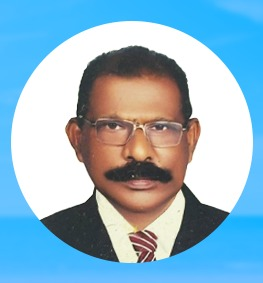
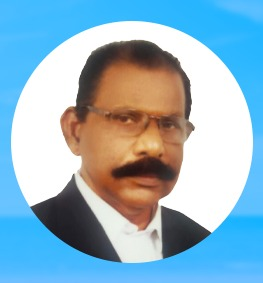
Ui

diff --git a/src/app/ip-attorneyshome/ip-attorneyshome.component.html b/src/app/ip-attorneyshome/ip-attorneyshome.component.html
@@ -1,95 +1,102 @@
 <section class="section-content-block section-secondary-bg">
 
     <div class="container">
-        
+
         <div class="row section-heading-wrapper">
-  
+
             <div class="col-md-12 col-sm-12 text-center">
                 <h4 class="heading-alt-style text-capitalize text-dark-color">Meet Our Legal Team</h4>
                 <span class="heading-separator heading-separator-horizontal"></span>
                 <h2 class="subheading-alt-style" style="text-align: justify;">
-                    Welcome to Adv. K.J. Thomas and Associates, a leading law firm based in Thiruvananthapuram, Kerala, specializing in Maritime Law, International Trade, and Customs  Laws and Regulations.Maritime and General Insurance ,Marine liability issues ,Admirality issues ,Company formation ,Import Export Code (IEC),Customs clearance ,Ship Registration,Legal and Comercial consultations,Legal Studies etc .   With a decade of dedicated practice, our firm provides expert legal counsel and representation to clients navigating the complexities of commercial courts, high courts, and international jurisdictions. Our mission is to offer strategic, results-driven solutions while upholding the highest standards of integrity and professionalism.
+                    Welcome to Adv. K.J.Thomas and Associates, a leading law firm based in Thiruvananthapuram, Kerala,
+                    specializing in Maritime Law, International Trade, and Customs Laws and Regulations.Maritime and
+                    General Insurance, Marine liability issues, Admirality issues, Company formation, Import Export Code
+                    (IEC), Customs clearance, Ship Registration, Legal and Commercial consultations, Legal Studies etc.
+                    With a decade of dedicated practice, our firm provides expert legal counsel and representation to
+                    clients navigating the complexities of commercial courts, high courts, and international
+                    jurisdictions. Our mission is to offer strategic, results-driven solutions while upholding the
+                    highest standards of integrity and professionalism.
                 </h2>
-            </div> <!-- end .col-sm-12  --> 
-  
+            </div> <!-- end .col-sm-12  -->
+
         </div>
-  
+
         <div class="row">
-  
+
             <div class="col-md-4 col-sm-6 col-xs-10 col-xs-offset-1 col-sm-offset-0 col-md-offset-0">
-  
-                <div class="team-layout-1 text-center">       
-  
+
+                <div class="team-layout-1 text-center">
+
                     <figure class="team-member">
                         <a href="#" title="K.J. Thomas Kallampally">
                             <img src="assets/images/team_5.jpeg" alt="K.J. Thomas Kallampally" />
                         </a>
                     </figure> <!-- end. team-member  -->
-  
-                    <article class="team-info">
-  
-                        <h3>Adv. K.J. Thomas  </h3>       
-                        <h4>M.Com, LL.B, Cert. Arb. & Med.</h4>                            
-                      <p>  Maritime & Customs</p>
-                        
-                      
-                    </article>                       
-                </div> <!--  end team layout-1 -->
-  
-            </div> <!--  end .col-lg-3 col-md-3 col-sm-6 col-xs-12 -->
-            
 
-  <div class="col-md-4 col-sm-6 col-xs-10 col-xs-offset-1 col-sm-offset-0 col-md-offset-0">
-  
-                <div class="team-layout-1 text-center">       
-  
+                    <article class="team-info">
+
+                        <h3>Adv. K.J.Thomas </h3>
+                        <h4 style="text-transform: capitalize;">M.Com, LL.B, Cert. Arb. & Med.</h4>
+                        <p> Maritime & Customs</p>
+
+
+                    </article>
+                </div> <!--  end team layout-1 -->
+
+            </div> <!--  end .col-lg-3 col-md-3 col-sm-6 col-xs-12 -->
+
+
+            <div class="col-md-4 col-sm-6 col-xs-10 col-xs-offset-1 col-sm-offset-0 col-md-offset-0">
+
+                <div class="team-layout-1 text-center">
+
                     <figure class="team-member">
                         <a href="#" title="K.Pradeep Kumar Kurunthali">
                             <img src="assets/images/team_6.jpg" alt="K.Pradeep Kumar Kurunthali" />
                         </a>
                     </figure> <!-- end. team-member  -->
-  
+
                     <article class="team-info">
-                        
-                        <h3>Adv. K.Pradeep Kumar </h3>    
-                        <h4> B.Sc., LL.B., M.B.L.</h4>                               
-                <p>  Dispute Resolution</p>
-                        
-                        
-  
-                    </article>                      
+
+                        <h3>Adv. K.Pradeep Kumar </h3>
+                        <h4 style="text-transform: capitalize;"> B.Sc., LL.B., M.L.M</h4>
+                        <p> Dispute Resolution</p>
+
+
+
+                    </article>
                 </div> <!--  end team-layout-1 -->
-  
+
             </div> <!--  end .col-lg-3 col-md-3 col-sm-6 col-xs-12  -->
-  
+
 
 
             <div class="col-md-4 col-sm-6 col-xs-10 col-xs-offset-1 col-sm-offset-0 col-md-offset-0">
-  
-                <div class="team-layout-1 text-center">       
-  
+
+                <div class="team-layout-1 text-center">
+
                     <figure class="team-member">
                         <a href="#" title="Gerosh Kumar ">
                             <img src="assets/images/team_7.jpg" alt="Gerosh Kumar " />
-                        </a>  
+                        </a>
                     </figure> <!-- end. team-member  -->
-  
-                    <article class="team-info">
-                        <h3>Adv. Gerosh Kumar  </h3> 
-                        <h4> B.Tech, FIE, MIS, IIT(Arb), LL.B, L.L.M Maritime Law</h4>
-                        <p>  Maritime & Hydrographic Consultant</p>                                   
-                      
-                       
-                    </article>                           
-                </div> <!--  end team-layout-1 -->
-  
-            </div> <!--  end .col-lg-3 col-md-3 col-sm-6 col-xs-12  -->
-  
-          
 
-  
-        </div> <!-- end .row  --> 
-  
+                    <article class="team-info">
+                        <h3>Adv. Gerosh Kumar </h3>
+                        <h4 style="text-transform: capitalize;"> B.Tech, FIE, MIS, IIT(Arb), LL.B, LL.M (Maritime Law)</h4>
+                        <p> Maritime & Hydrographic Consultant</p>
+
+
+                    </article>
+                </div> <!--  end team-layout-1 -->
+
+            </div> <!--  end .col-lg-3 col-md-3 col-sm-6 col-xs-12  -->
+
+
+
+
+        </div> <!-- end .row  -->
+
     </div> <!-- end .container  -->
-  
-  </section> 
+
+</section>

diff --git a/src/app/ip-header/ip-header.component.html b/src/app/ip-header/ip-header.component.html
@@ -69,7 +69,7 @@
                                         <span class="head-content">
                                             +91 944 7117 399</span> <br>
                                         <span class="head-content">
-                                            +91 944 7047 470</span><br>
+                                            +91 984 7563 366 </span><br>
                                         <span class="head-content">
                                             +91 944 6526 505</span>
 
@@ -88,7 +88,7 @@
                                             Court View Inn, Near <br> Indian Bank,
 
                                             Vanchiyoor Jn,
-                                            Thiruvananthapuram-11
+                                            Thiruvananthapuram-35.
                                         </span>
                                     </div>
                                 </div><!-- end .repair-icon-box  -->
@@ -102,7 +102,7 @@
                                     <div class="text">
                                         <span class="head-heading">TIMINGS</span>
                                         <span class="head-content">
-                                            Monday - Saturday <br> 9:00 AM - 06:00 PM
+                                            Monday - Saturday <br> 09:00 AM - 09:00 PM
                                             <br>
                                             Sunday 3:00 PM - 07:00 PM
                                         </span>
@@ -127,7 +127,7 @@
                         <li class="drop">
                             <a routerLink="#" title="About Us">About Us</a>
                             <ul class="drop-down">
-                                <li><a href="about">Adv. KJ.Thomas & Assco.</a></li>
+                                <li><a href="about">Adv. KJ.Thomas & Associates</a></li>
 
                                 <li><a href="our-team">Our Team</a></li>
                                 <li><a href="our-gallery">Our Gallery</a></li>

diff --git a/src/app/ip-memberdetailed/ip-memberdetailed.component.html b/src/app/ip-memberdetailed/ip-memberdetailed.component.html
@@ -33,7 +33,7 @@
                 <h2 class="subheading-alt-style" style="text-align: justify;">
                     Our legal team brings together extensive expertise in Maritime (Admiralty) Law, International Trade,
                     and Customs, offering comprehensive legal and commercial consultancy services to clients across the
-                    shipping and trade industries. With years of practice before Admiralty Courts, Commercial Courts,
+                    shipping and trade industries. With years of practice before Civil, Maritime, Admiralty Courts, Commercial Courts,
                     High Courts, and Customs Courts, we are well-positioned to handle complex disputes and provide
                     practical, result-oriented solutions.
 
@@ -42,7 +42,7 @@
                     We specialize in a wide spectrum of maritime and trade-related matters, including ship arrest, P&I
                     Club settlement and ship release, maritime insurance claims, ship registration, and renewal ,company
                     registration proceedings. Our services also extend to documentation and customs clearance, freight
-                    forwarding, ship chandelling, crew changing, and recruitment/placement under RPS licensing. Through
+                    forwarding, ship chandelling, crew changing, and crew recruitment/placement under RPS licensing. Through
                     our integrated legal and commercial approach, we ensure that shipowners, traders, and logistics
                     providers receive seamless support at every stage of their operations.
 

diff --git a/src/app/ip-abouthome/ip-abouthome.component.html b/src/app/ip-abouthome/ip-abouthome.component.html
@@ -12,7 +12,7 @@
                     <div class="about-us-intro">
 
                         <div class="col-md-12 col-sm-12 text-left margin-bottom-2">
-                            <h3 class="block-heading-title margin-top-12 text-dark-color">About Adv. K.J. Thomas and
+                            <h3 class="block-heading-title margin-top-12 text-dark-color">About Adv. K.J.Thomas and
                                 Associates </h3>
                             <!-- <h5> Maritime and Customs Lawyers</h5> -->
                             <p>
@@ -26,13 +26,13 @@
 
                     <div class="col-md-6">
                         <div class="highlight-layout-2">
-
+ 
                             <div class="highlight-icon">
                                 <!-- <i class="fa fa-wrench"></i> --><i class="fa-solid fa-ship"></i>
                             </div> <!-- end .service-icon  -->
 
                             <div class="highlight-text">
-                                <h5><a href="#">Marine(Admirality) & Customs law</a></h5>
+                                <h5><a href="#">Maritime (Admirality) & Customs law</a></h5>
                                 <div>The Court cases and disputes arising from maritime activities.
                                     Also provides <span style="font-weight: bold;"> Awareness/ learning/ Training Programmes</span> for Sea Farers</div>
                             </div> <!-- end .service-text  -->

diff --git a/src/app/ip-footer/ip-footer.component.html b/src/app/ip-footer/ip-footer.component.html
@@ -155,7 +155,7 @@
                                 <i class="fa fa-location-arrow fa-contact"></i>
                                 <p>Adv. K.J. Thomas Kallampally, <br />Court View Inn, <br>Near
                                     Indian Bank, <br> Vanchiyoor Junction,<br>
-                                    Thiruvananthapuram-11</p>
+                                    Thiruvananthapuram-35.</p>
 
                                 <i class="fa fa-phone fa-contact"></i>
                                 <p>Cell:&nbsp; +91 944 7117 399
@@ -184,11 +184,11 @@
                                 <ul class="opening-shedule">
                                     <li class="clearfix">
                                         <span> Every day </span>
-                                        <div class="pull-right">9:00 AM to 6:00 PM</div>
+                                        <div class="pull-right">09:00 AM to 09:00 PM</div>
                                     </li>
                                     <li>
                                         <span> Sunday </span>
-                                        <div class="pull-right"> 3:00 PM to 7:00 PM</div>
+                                        <div class="pull-right"> 03:00 PM to 07:00 PM</div>
                                     </li>
                                     <li>
                                         <span> (except Court timings)</span>

diff --git a/src/app/ip-page-contact/ip-page-contact.component.html b/src/app/ip-page-contact/ip-page-contact.component.html
@@ -44,9 +44,9 @@
                         <span class="icon-container"><i class="fa fa-home"></i></span>
 
                     </li>
-                    <address>KJ Thomas & Associates, <br> Court View Inn, Near
+                    <address>Adv. KJ Thomas & Associates, <br> Court View Inn, Near
                         Indian Bank,<br>Vanchiyoor Junction, Vanchiyoor PO, <br>Thiruvananthapuram , <br>Kerala,IN
-                        Pin:695011, </address>
+                        Pin:695035, </address>
                 </ul>
 
             </div>
@@ -58,12 +58,13 @@
                     <li>
                         <p>Adv. K.J. THOMAS <BR> +91 944 7117 399</p>
                     </li>
+                     <li>
+                        <p>Adv. K. PRADEEP KUMAR <br> +91 98475 63366</p>
+                    </li>
                     <li>
                         <p>Adv. V. GEROSH KUMAR <br> +91 94465 26505</p>
                     </li>
-                    <li>
-                        <p>Adv. K. PRADEEP KUMAR <br> +91 98475 63366</p>
-                    </li>
+                   
                 </ul>
 
             </div>

diff --git a/src/app/ip-page-about/ip-page-about.component.html b/src/app/ip-page-about/ip-page-about.component.html
@@ -44,7 +44,7 @@
 
                 <div class="row">
 
-                    <div class="about-us-info  text-left">
+                    <div class="about-us-info text-left" style="padding: 5%;">
 
                         <h3 class="about-us-slogan about-us-slogan-bold text-light-color">
                            CLIENT'S PERCEPTION <br> <i class="text-curly text-highlighter-primary">IS</i> OUR REALITY !<br>
@@ -72,7 +72,7 @@
                             </div> <!--  end .about-details -->  
 
                             <p class="margin-top-24 text-light-color">
-                                <a href="#" class="btn btn-theme">LEARN ABOUT US</a>
+                                <a href="about" class="btn-theme">LEARN ABOUT US</a>
                             </p>
 
                         </div>

diff --git a/src/app/ip-abouthome/ip-abouthome.component.css b/src/app/ip-abouthome/ip-abouthome.component.css
@@ -1,0 +1,3 @@
+.about-us-info text-left{
+    padding: 5%;
+}
